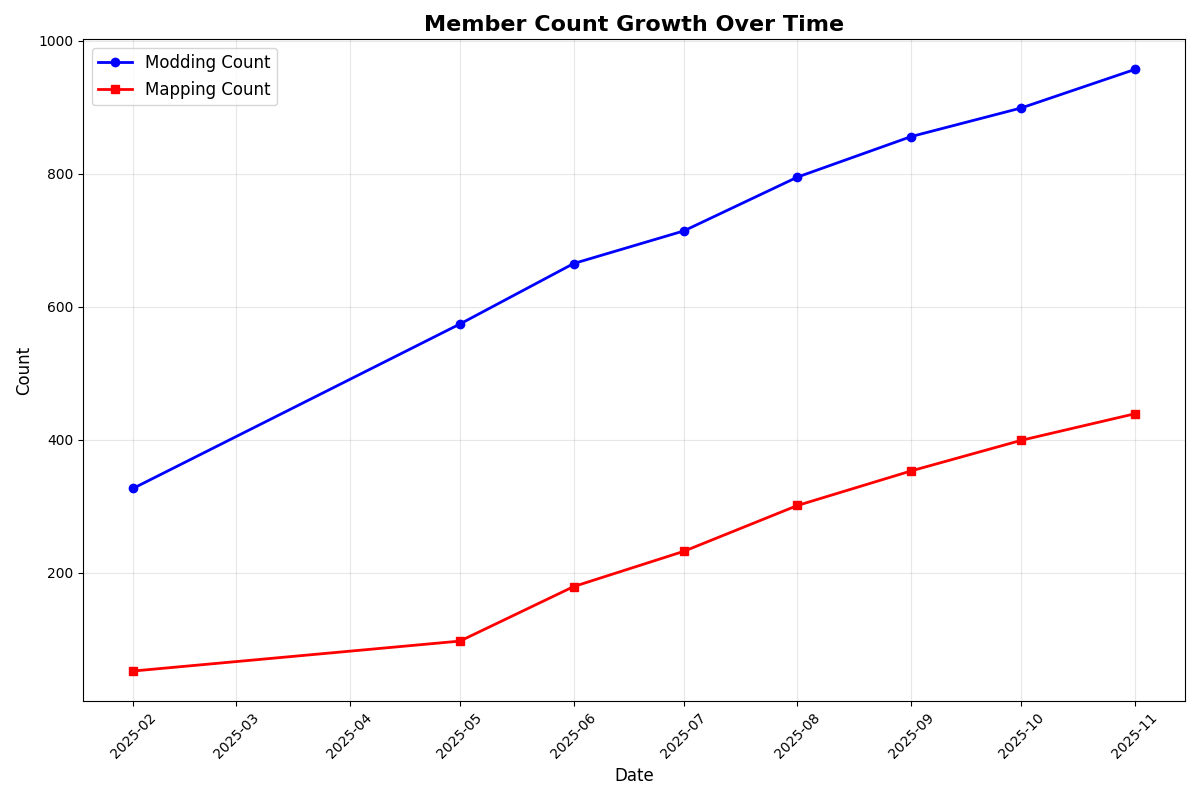
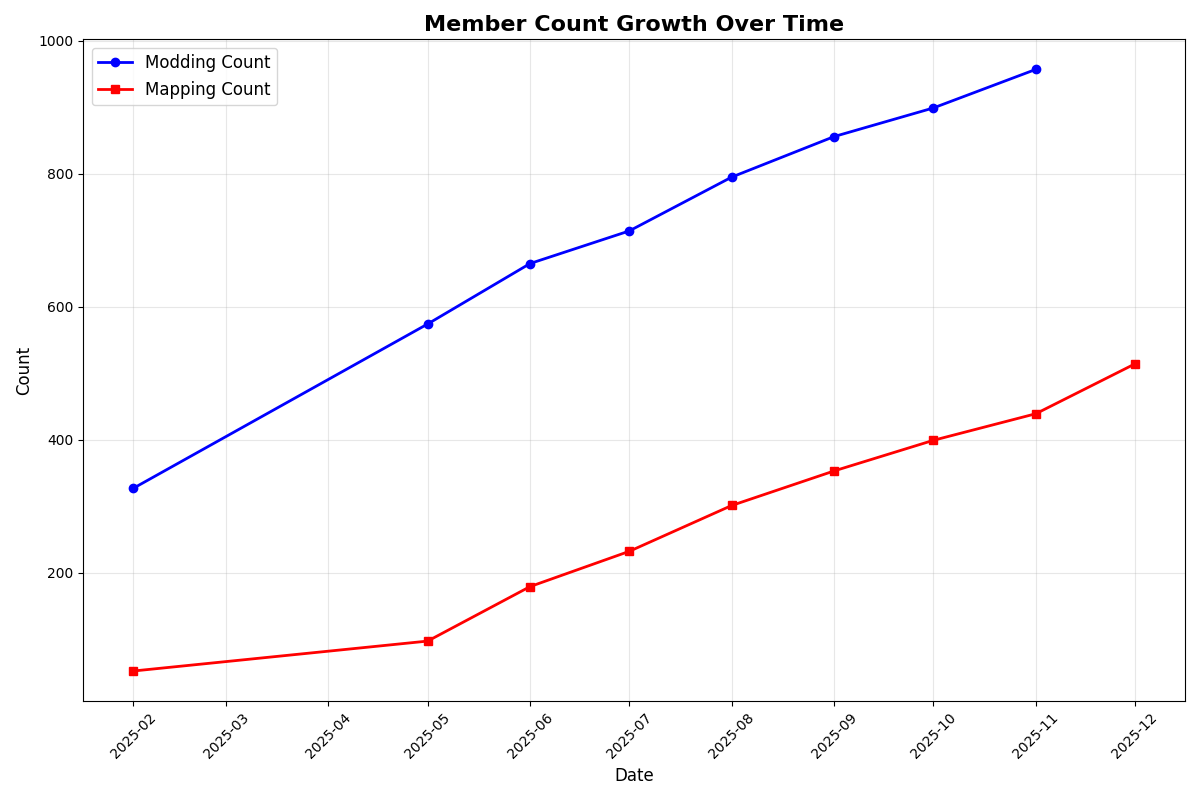
Wiki sumarry

diff --git a/Scripts/plot_join.py b/Scripts/plot_join.py
@@ -8,8 +8,8 @@ from datetime import datetime
 # Get the directory where this script is located
 csv = os.path.join(os.path.abspath("./Data/member_join.csv"))
 
-# Read the CSV file with proper delimiter (space-separated)
-df = pd.read_csv(csv, sep=r'\s+', engine='python')
+# Read the CSV file with proper delimiter (comma)
+df = pd.read_csv(csv, sep=r',', engine='python')
 
 # Create a proper date column for plotting
 df['date'] = pd.to_datetime(df[['year', 'month']].assign(day=1))
